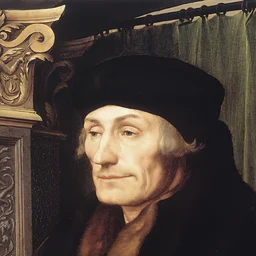
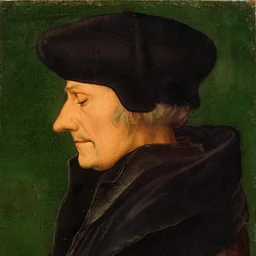
Timeline portraits: 11 public-domain sources (Rome, the Reformers)
Adds sourced public-domain portraits for 11 Timeline event figures
outside the People index: Julius Caesar, Constantine and Pope Leo X
(already pre-approved placeholders in timeline-portraits.json's "ids"
array, now backed by real assets) and eight Reformers (Luther, Calvin,
Tyndale, Wycliffe, Erasmus, Thomas More, Knox, Zwingli), newly added to
"ids". Records each source URL, author, licence and credit in a new
top-level "sources" object, verified against the Wikimedia Commons API.

Images and sourcing were produced by the Image Curator agent on CYB-88
and committed here because that agent's write tool cannot carry raw
WebP bytes losslessly.

diff --git a/CHANGELOG.md b/CHANGELOG.md
@@ -30,6 +30,8 @@ request that introduced this file ([#77]).
 
 - Admins can review Timeline and note corrections, outside-source changes and resource publications from Settings. Content saves open pull requests; publication requires passing checks and an explicit admin action.
 
+- Timeline portraits for Julius Caesar, Constantine, Pope Leo X and eight Reformers (Luther, Calvin, Tyndale, Wycliffe, Erasmus, Thomas More, Knox, Zwingli) now use sourced public-domain artwork instead of the lettered avatar.
+
 Merged to `main` and not yet in a tagged release. Production currently runs `861242f`
 ([deploy run 37060784554](https://github.com/DevSecObie/cyberjudah-telegram/actions/runs/37060784554)).
 
